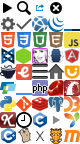
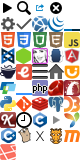
Add Laravel documentation

diff --git a/assets/stylesheets/global/_icons.scss b/assets/stylesheets/global/_icons.scss
@@ -4,7 +4,7 @@
   width: 1rem;
   height: 1rem;
   background-image: image-url('icons.png');
-  background-size: 5rem 9rem;
+  background-size: 5rem 10rem;
 }
 
 @media (-webkit-min-device-pixel-ratio: 1.5), (min-resolution: 144dpi) {
@@ -56,3 +56,4 @@
 ._icon-express:before       { background-position: -2rem -8rem; }
 ._icon-grunt:before         { background-position: -3rem -8rem; }
 ._icon-maxcdn:before        { background-position: -4rem -8rem; }
+._icon-laravel:before       { background-position: 0 -9rem; }

diff --git a/assets/stylesheets/pages/_laravel.scss b/assets/stylesheets/pages/_laravel.scss
@@ -1,0 +1,8 @@
+._sami {
+  h2 { @extend %block-heading; }
+  h3 { @extend %block-label, %label-blue; }
+  h4 { font-size: 1em; }
+
+  blockquote { @extend %note; }
+  p > code { @extend %label; }
+}

diff --git a/assets/stylesheets/application.css.scss b/assets/stylesheets/application.css.scss
@@ -39,6 +39,7 @@
         'pages/knockout',
         'pages/git',
         'pages/grunt',
+        'pages/laravel',
         'pages/less',
         'pages/lodash',
         'pages/maxcdn',

diff --git a/lib/docs/filters/laravel/clean_html.rb b/lib/docs/filters/laravel/clean_html.rb
@@ -1,0 +1,55 @@
+module Docs
+  class Laravel
+    class CleanHtmlFilter < Filter
+      def call
+        if subpath.start_with?('/api')
+          api
+        else
+          other
+        end
+
+        doc
+      end
+
+      def api
+        css('#footer', '.location').remove
+
+        # Replace .header with <h1>
+        css('.header > h1').each do |node|
+          node.parent.before(node).remove
+          node.content = 'Laravel' if root_page?
+        end
+
+        # Remove <abbr>
+        css('a > abbr').each do |node|
+          node.parent['title'] = node['title']
+          node.before(node.children).remove
+        end
+
+        # Clean up headings
+        css('h1 > a', '.content', 'h3 > code', 'h3 strong', 'abbr').each do |node|
+          node.before(node.children).remove
+        end
+
+        # Remove empty <td>
+        css('td').each do |node|
+          node.remove if node.content =~ /\A\s+\z/
+        end
+      end
+
+      def other
+        @doc = at_css('#docs-content')
+
+        # Clean up headings
+        css('h2 > a').each do |node|
+          node.before(node.children).remove
+        end
+
+        # Remove code highlighting
+        css('pre').each do |node|
+          node.content = node.content
+        end
+      end
+    end
+  end
+end

diff --git a/lib/docs/scrapers/laravel.rb b/lib/docs/scrapers/laravel.rb
@@ -1,0 +1,39 @@
+module Docs
+  class Laravel < UrlScraper
+    self.name = 'Laravel'
+    self.slug = 'laravel'
+    self.type = 'laravel'
+    self.version = '4.1.29'
+    self.base_url = 'http://laravel.com'
+    self.root_path = '/docs/introduction'
+    self.initial_paths = %w(/api/4.1/namespaces.html)
+
+    html_filters.push 'laravel/entries', 'laravel/clean_html'
+
+    options[:container] = ->(filter) {
+      filter.subpath.start_with?('/api') ? nil : '#documentation > article'
+    }
+
+    options[:only_patterns] = [
+      /\A\/api\/4\.1\//,
+      /\A\/docs\//]
+
+    options[:skip] = %w(
+      /docs/quick
+      /docs/releases
+      /docs/upgrade
+      /docs/artisan
+      /docs/commands
+      /api/4.1/panel.html
+      /api/4.1/classes.html
+      /api/4.1/interfaces.html
+      /api/4.1/traits.html
+      /api/4.1/doc-index.html
+      /api/4.1/Illuminate.html)
+
+    options[:attribution] = <<-HTML
+      &copy; Taylor Otwell<br>
+      Licensed under the MIT License.
+    HTML
+  end
+end

diff --git a/lib/docs/filters/laravel/entries.rb b/lib/docs/filters/laravel/entries.rb
@@ -1,0 +1,40 @@
+module Docs
+  class Laravel
+    class EntriesFilter < Docs::EntriesFilter
+      def get_name
+        if api_page?
+          at_css('h1').content.strip.split('\\').last
+        else
+          at_css('h1').content.strip
+        end
+      end
+
+      def get_type
+        if api_page?
+          type = at_css('h1').content.strip.remove('Illuminate\\').remove(/\\\w+?\z/)
+          type.end_with?('Console') ? type.split('\\').first : type
+        else
+          'Guides'
+        end
+      end
+
+      def additional_entries
+        return [] unless api_page?
+
+        css('h3[id^="method_"]').each_with_object [] do |node, entries|
+          next if node.at_css('.location').content.start_with?('in')
+
+          name = node['id'].remove('method_')
+          name.prepend "#{self.name}::"
+          name << '()'
+
+          entries << [name, node['id']]
+        end
+      end
+
+      def api_page?
+        subpath.start_with?('/api')
+      end
+    end
+  end
+end
